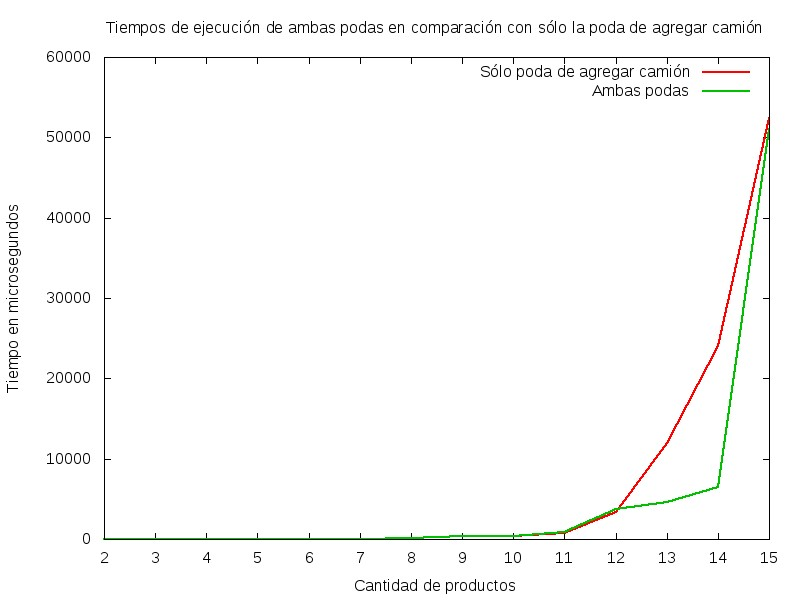
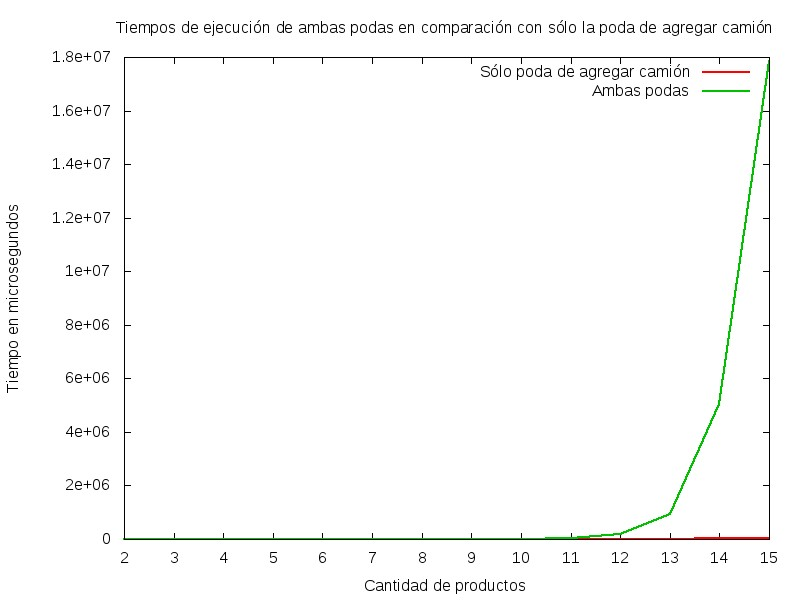
Corregí un error en el código de la poda del resto de los productos que me llevaba a conclusiones erróneas, ya arreglé el informe también. Revisen todo por si acaso.

diff --git a/informe/ej3.tex b/informe/ej3.tex
@@ -133,9 +133,9 @@ Testearemos instancias aleatorias con cantidad de productos en $[2,...,15]$. Los
 
 En la sección anterior dijimos que la complejidad del algoritmo sin podas es $O\left(\sum\limits_{\substack{i = 1}}^n i!\right)$. Hicimos tests de medición de tiempo para corroborar esto. Notemos que 
 \begin{align*}
-O\left(\sum\limits_{\substack{i = 1}}^n i!\right) \in O(n \times n!)
+O\left(\sum\limits_{\substack{i = 1}}^n i!\right) \subseteq O(n \times n!)
 \end{align*}
-Por otro lado, por propiedades del logaritmo, 
+Por otro lado, por propiedad del logaritmo, 
 \begin{align*}
 ln(n \times n!) &= ln(n) + ln(n!)
 \end{align*}
@@ -160,8 +160,8 @@ En el próximo gráfico ploteamos, para $n$ $=$ cantidad de productos, $t_n$ $=$
 
 Analicemos ahora cómo se comporta el algoritmo con las siguientes podas: 
 \begin{enumerate}
-\item Sabiendo que en la rama en la que estoy tenemos $C-1$ camiones, donde $C$ es la cantidad de camiones de la mejor solución hasta el momento, al insertar exitosamente un producto en alguno de los camiones, va a chequear --antes de llamar a la recursión-- si el resto de los productos pueden entrar en algún camión. Si algún producto no puede entrar en ningún camión, eso implica que necesitamos al menos un camión más, lo cual empata a la mejor solución, es entonces donde se poda esta rama que no llevará a nada mejor. El problema de esta cota es que pueden estar recalculándose múltiples veces si un producto $x$ entra en un camión $y$, lo cual puede ser un problema porque cada vez que se ejecuta esta poda se hacen $O(n^2)$ comparaciones de peligrosidades.
-\item Esta cota también se activa al estar en $C-1$ camiones, y es más simple y rápida que la anterior: si llegamos al punto donde tenemos que agregar un camión, salimos, porque empatamos a la mejor solución y no sirve toda esa rama.
+\item La poda ``del resto de los productos'' consiste en lo siguiente: Sabiendo que en la rama en la que estoy tenemos $C-1$ camiones, donde $C$ es la cantidad de camiones de la mejor solución hasta el momento, al insertar exitosamente un producto en alguno de los camiones, va a chequear --antes de llamar a la recursión-- si el resto de los productos pueden entrar en algún camión. Si algún producto no puede entrar en ningún camión, eso implica que necesitamos al menos un camión más, lo cual empata a la mejor solución, es entonces donde se poda esta rama que no llevará a nada mejor. El problema de esta cota es que pueden estar recalculándose múltiples veces si un producto $x$ entra en un camión $y$, lo cual puede ser un problema porque cada vez que se ejecuta esta poda se hacen $O(n^2)$ comparaciones de peligrosidades.
+\item La poda de ``agregar camión'' también se activa al estar en $C-1$ camiones, y es más simple y rápida que la anterior: si llegamos al punto donde tenemos que agregar un camión, salimos, porque empatamos a la mejor solución y no sirve toda esa rama.
 \end{enumerate}
 
 Si vemos los tiempos de las tres configuraciones, tenemos:
@@ -196,4 +196,15 @@ A pesar de esto, para valores bajos de $n$ es una excelente poda. Por último, p
 	\end{minipage}
 \end{figure}
 
-Logramos mejorar aún más el tiempo de ejecución para valores bajos, aunque rápidamente alcanza a la poda anterior.
+Usar ambas podas no mejora el tiempo de ejecución en comparación con la poda de agregar camión. Veamos si usar ambas es mejor que usar solamente la del resto:
+
+\begin{figure}[H]
+	\begin{minipage}[t]{\linewidth}
+		\centering
+		\includegraphics[width=\textwidth]{comparacion_poda_resto_con_ambas_podas.jpg}
+		%\caption{Con colisión total}
+		\label{fig:p3_comparacion_poda_resto_con_ambas_podas}
+	\end{minipage}
+\end{figure}
+
+En este caso usar ambas podas parece mejorar levemente la poda del resto, aunque claramente como conclusión podemos decir que la mejor poda de las dos es la de agregar camión.

diff --git a/src/cpp/p3/tests/p3-test.cpp b/src/cpp/p3/tests/p3-test.cpp
@@ -11,7 +11,7 @@
 using namespace std;
 
 const int MAX_CANTIDAD_PRODUCTOS = 100;
-const int FOR_MINIMO = 3;
+const int FOR_MINIMO = 2;
 const bool PODA_AGREGAR_CAMION = true;
 const bool PODA_RESTO_PRODUCTOS = true;
 
@@ -110,7 +110,7 @@ void bt(int producto, vector<Camion> &camiones, vector<Camion> &mejorTemp,
                         }
                         if (!entraEnAlguno) {
                             sacarProducto(producto, camiones[j], peligrosidadPrevia);
-                            return;
+                            continue;
                         }
                     }
                 }

diff --git a/src/cpp/p3/tests/randomGen.cpp b/src/cpp/p3/tests/randomGen.cpp
@@ -9,7 +9,7 @@
 
 using namespace std;
 
-const int CANT_INSTANCIAS = 500;
+const int CANT_INSTANCIAS = 5;
 const int LIM_PRODUCTOS = 15;
 const int UMBRAL = 100;
 
